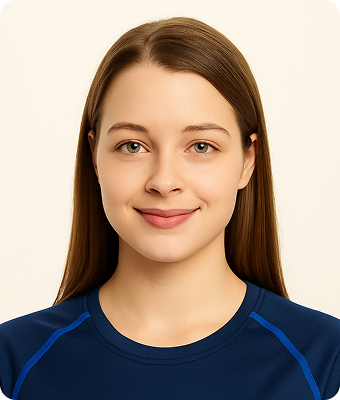
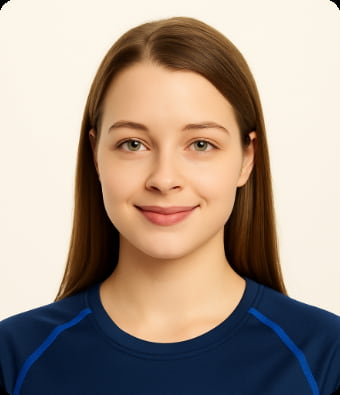
change team photo

diff --git a/src/partials/team.html b/src/partials/team.html
@@ -11,14 +11,14 @@
             <!-- Liam -->
             <li class="team-card">
                 <picture class="team-card-picture">
-                    <source srcset="/img/team/liam.jpg 1x, /img/team/liam-@2x.jpg 2x" media="(min-width: 1440px)" />
-                    <source srcset="/img/team/liam-mob.jpg 1x, /img/team/liam-mob-@2x.jpg 2x"
-                        media="(max-width: 768px)" />
-                    <img src="/img/team/liam.jpg" alt="Liam Johnson" width="343" height="221" />
+                    <source srcset="/img/team/liam-mob.jpg 1x, /img/team/liam-mob-2x.jpg 2x" media="(max-width: 768px)" />
+                    <source srcset="/img/team/liam.jpg 1x, /img/team/liam-2x.jpg 2x" media="(min-width: 1440px)" />
+                    <img src="/img/team/liam-tab.jpg" srcset="/img/team/liam-tab.jpg 1x, /img/team/liam-tab-2x.jpg 2x"
+                        alt="Liam Johnson" /> 
                 </picture>
                 <h3>Liam Johnson</h3>
                 <p class="role">Yoga Instructor</p>
-                <p class="bio">Emma has over 10 years of experience in Hatha and Vinyasa yoga.</p>
+                <p class="bio">Liam specializes in mindfulness and stress reduction techniques through guided meditation.</p>
                 <div class="team-socials">
                     <a class="media-container-icon linkedin" href="https://www.linkedin.com/">
                         <svg class="mediaicons" width="18" height="18">
@@ -36,18 +36,22 @@
             <!-- Emma -->
             <li class="team-card">
                 <picture class="team-card-picture">
-                    <source srcset="/img/team/emma.jpg 1x, /img/team/emma-@2x.jpg 2x" media="(min-width: 1336px)" />
-                    <source srcset="/img/team/emma-mob.jpg 1x, /img/team/emma-mob-@2x.jpg 2x"
-                        media="(max-width: 768px)" />
-                    <img src="/img/team/emma.jpg" alt="Emma Stone" width="343" height="221" />
+                    <!-- Мобільні екрани до 768px -->
+                    <source srcset="/img/team/emma-mob.jpg 1x,/img/team/emma-mob-2x.jpg 2x" media="(max-width: 768px)"/>
+                    <!-- Десктопи від 1440px -->
+                    <source srcset="/img/team/emma.jpg 1x, /img/team/emma-2x.jpg 2x" 
+                    media="(min-width: 1440px)" />
+                
+                    <!-- Fallback для екранів 768px–1439px -->
+                    <img src="/img/team/emma-tab.jpg" srcset="/img/team/emma-tab.jpg 1x, /img/team/emma-tab-2x.jpg 2x" alt="Emma Stone"/>        
                 </picture>
+            
                 <h3>Emma Stone</h3>
                 <p class="role">Meditation Coach</p>
-                <p class="bio">Liam specializes in mindfulness and stress reduction techniques through guided
-                    meditation.
+                <p class="bio">Emma has over 10 years of experience in Hatha and Vinyasa yoga.
                 </p>
-                <div class="socials">
-                    <a class="media-container-icon linkedin" href="#">
+                <div class="team-socials">
+                    <a class="media-container-icon linkedin" href="https://www.linkedin.com/">
                         <svg class="mediaicons" width="18" height="18">
                             <use href="/img/sprite.svg#icon-linkedin"></use>
                         </svg>
@@ -58,16 +62,19 @@
             <!-- Sophia -->
             <li class="team-card">
                 <picture class="team-card-picture">
-                    <source srcset="/img/team/sophia.jpg 1x, /img/team/sophia-@2x.jpg 2x" media="(min-width: 1336px)" />
-                    <source srcset="/img/team/sophia-mob.jpg 1x, /img/team/sophia-mob-@2x.jpg 2x"
-                        media="(max-width: 768px)" />
-                    <img src="/img/team/sophia.jpg" alt="Sophia Lee" width="343" height="221" />
+                    <source srcset="/img/team/sophia-mob.jpg 1x, /img/team/sophia-mob-2x.jpg 2x" media="(max-width: 768px)" />
+                    
+                    <!-- Десктопи: від 1440px -->
+                    <source srcset="/img/team/sophia.jpg 1x, /img/team/sophia-2x.jpg 2x" media="(min-width: 1440px)" />
+                    
+                    <!-- Планшети та середні екрани: 769px – 1439px -->
+                    <img src="/img/team/sophia-tab.jpg" srcset="/img/team/sophia-tab.jpg 1x, /img/team/sophia-tab-2x.jpg 2x" alt="Sophia Lee" />
                 </picture>
                 <h3>Sophia Lee</h3>
                 <p class="role">Pilates Trainer</p>
                 <p class="bio">Sophia combines Pilates with yoga for a holistic fitness approach.</p>
-                <div class="socials">
-                    <a class="media-container-icon instagram" href="#">
+                <div class="team-socials">
+                    <a class="media-container-icon instagram" href="https://www.instagram.com/">
                         <svg class="mediaicons" width="24" height="24">
                             <use href="/img/sprite.svg#icon-instagram"></use>
                         </svg>
@@ -78,16 +85,20 @@
             <!-- Noah -->
             <li class="team-card">
                 <picture class="team-card-picture">
-                    <source srcset="/img/team/noah.jpg 1x, /img/team/noah-@2x.jpg 2x" media="(min-width: 1336px)" />
-                    <source srcset="/img/team/noah-mob.jpg 1x, /img/team/noah-mob-@2x.jpg 2x"
-                        media="(max-width: 768px)" />
-                    <img src="/img/team/noah.jpg" alt="Noah Brown" width="343" height="221" />
+                    <source srcset="/img/team/noah-mob.jpg 1x, /img/team/noah-mob-2x.jpg 2x" media="(max-width: 768px)" />
+                    
+                    <!-- Десктопи (від 1440px) -->
+                    <source srcset="/img/team/noah.jpg 1x, /img/team/noah-2x.jpg 2x" media="(min-width: 1440px)" />
+                    
+                    <!-- Середні екрани (769px–1439px) -->
+                    <img src="/img/team/noah.jpg" srcset="/img/team/noah-tab.jpg 1x, /img/team/noah-tab-2x.jpg 2x" 
+                    alt="Noah Brown" />
                 </picture>
                 <h3>Noah Brown</h3>
                 <p class="role">Yoga Therapist</p>
                 <p class="bio">Noah focuses on therapeutic yoga to aid recovery and enhance well-being.</p>
-                <div class="socials">
-                    <a class="media-container-icon linkedin" href="#">
+                <div class="team-socials">
+                    <a class="media-container-icon linkedin" href="https://www.linkedin.com/">
                         <svg class="mediaicons" width="18" height="18">
                             <use href="/img/sprite.svg#icon-linkedin"></use>
                         </svg>
@@ -98,27 +109,31 @@
             <!-- Ava -->
             <li class="team-card">
                 <picture class="team-card-picture">
-                    <source srcset="/img/team/ava.jpg 1x, /img/team/ava-@2x.jpg 2x" media="(min-width: 1336px)" />
-                    <source srcset="/img/team/ava-mob.jpg 1x, /img/team/ava-mob-@2x.jpg 2x"
-                        media="(max-width: 768px)" />
-                    <img src="/img/team/ava.jpg" alt="Ava Green" width="343" height="221" />
+                    <source srcset="/img/team/ava-mob.jpg 1x, /img/team/ava-mob-2x.jpg 2x" media="(max-width: 768px)" />
+                    
+                    <!-- Десктопи (від 1440px) -->
+                    <source srcset="/img/team/ava.jpg 1x, /img/team/ava-2x.jpg 2x" media="(min-width: 1440px)" />
+                    
+                    <!-- Середні екрани (від 769px до 1439px) -->
+                    <img src="/img/team/ava-tab.jpg" srcset="/img/team/ava-tab.jpg 1x, /img/team/ava-tab-2x.jpg 2x" alt="Ava Green"
+                    />
                 </picture>
                 <h3>Ava Green</h3>
                 <p class="role">Fitness Trainer</p>
                 <p class="bio">Ava integrates strength training with yoga to promote overall fitness.</p>
-                <div class="socials">
-                    <a class="media-container-icon facebook" href="#">
+                <div class="team-socials">
+                    <a class="media-container-icon facebook" href="https://www.facebook.com/">
                         <svg class="mediaicons" width="24" height="24">
                             <use href="/img/sprite.svg#icon-facebook"></use>
                         </svg>
                     </a>
 
-                    <a class="media-container-icon instagram" href="#">
+                    <a class="media-container-icon instagram" href=" https://www.instagram.com/">
                         <svg class="mediaicons" width="24" height="24">
                             <use href="/img/sprite.svg#icon-instagram"></use>
                         </svg>
                     </a>
-                    <a class="media-container-icon linkedin" href="#">
+                    <a class="media-container-icon linkedin" href="https://www.linkedin.com/">
                         <svg class="mediaicons" width="18" height="18">
                             <use href="/img/sprite.svg#icon-linkedin"></use>
                         </svg>
@@ -129,24 +144,28 @@
             <!-- Clark -->
             <li class="team-card">
                 <picture class="team-card-picture">
-                    <source srcset="/img/team/clark.jpg 1x, /img/team/clark-@2x.jpg 2x" media="(min-width: 1336px)" />
-                    <source srcset="/img/team/clark-mob.jpg 1x, /img/team/clark-mob-@2x.jpg 2x"
-                        media="(max-width: 768px)" />
-                    <img src="/img/team/clark.jpg" alt="Clark Thomas" width="343" height="221" />
+                    <source srcset="/img/team/clark-mob.jpg 1x, /img/team/clark-mob-2x.jpg 2x" media="(max-width: 768px)" />
+                    
+                    <!-- Десктопи (від 1440px) -->
+                    <source srcset="/img/team/clark.jpg 1x, /img/team/clark-2x.jpg 2x" media="(min-width: 1440px)" />
+                    
+                    <!-- Середні екрани (fallback 769px–1439px) -->
+                    <img src="/img/team/clark-tab.jpg" srcset="/img/team/clark-tab.jpg 1x, /img/team/clark-tab-2x.jpg 2x" alt="Clark Thomas"
+                    />
                 </picture>
                 <h3>Clark Thomas</h3>
                 <p class="role">Fitness Trainer</p>
                 <p class="bio">Clark specializes in mindfulness and stress reduction techniques through guided
                     meditation.
                 </p>
-                <div class="socials">
-                    <a class="media-container-icon facebook" href="#">
+                <div class="team-socials">
+                    <a class="media-container-icon facebook" href="https://www.facebook.com/">
                         <svg class="mediaicons" width="24" height="24">
                             <use href="/img/sprite.svg#icon-facebook"></use>
                         </svg>
                     </a>
 
-                    <a class="media-container-icon linkedin" href="#">
+                    <a class="media-container-icon linkedin" href="https://www.linkedin.com/">
                         <svg class="mediaicons" width="18" height="18">
                             <use href="/img/sprite.svg#icon-linkedin"></use>
                         </svg>

diff --git a/src/css/team.css b/src/css/team.css
@@ -37,7 +37,6 @@
 
 
 .team-description {
-    font-family: "Sarabun", sans-serif;
     font-weight: 400;
     font-size: 16px;
     line-height: 1.6;
@@ -59,14 +58,16 @@
     box-shadow: none;
     display: flex;
     flex-direction: column;
-   
-
+    height: 100%;
 }
 
 .team-card-picture {
     margin-bottom: 20px;
 }
-
+.team-card-picture img {
+    min-width: 343px;
+    border-radius: 16px;
+}
 .team-card h3 {
     font-weight: 600;
     font-size: 18px;
@@ -104,49 +105,73 @@
 
 /* Tablet: 768px */
 @media only screen and (min-width: 768px) {
-    .team-header h2 {
+    .team {
+        padding: 40px 0 0 0;
+    }
+    .team-subtitle {
+        margin-bottom: 16px;
+    }
+    .team-title {
         font-size: 52px;
+        margin-bottom: 24px;
     }
-
+    .team-description {
+        font-size: 18px;
+        margin-bottom: 40px;
+    }
     .team-grid {
-        grid-template-columns: repeat(2, 1fr);
-        gap: 32px;
-        max-width: 768px;
+        flex-direction: row;
+        flex-wrap: wrap;
+        gap: 24px;
+        align-items: flex-start;
+        
     }
-
-    .team-card picture,
-    .team-card img {
-        max-width: 340px;
-        height: auto;
+    .team-card {
+        width: calc((100% - 24px) / 2)
     }
+    .team-card-picture {
+        
+        margin-bottom: 24px;
+    }
+    .team-card h3 {
+        font-size: 22px;
+    }
+    .team-card .role {
+        font-size: 18px;
+        margin-bottom: 16px;
+    }
+    .team-card .bio {
+        margin-bottom: 24px;
+    }
+    .team-socials {
+        gap: 14px;
+    }
+        
+    
 }
 
 /* Desktop: 1336px+ */
-@media only screen and (min-width: 1336px) {
-    .team-header h2 {
+@media only screen and (min-width: 1440px) {
+    .team {
+        padding: 112px 0;
+    }
+    .team-title {
         font-size: 52px;
     }
-
     .team-grid {
-        grid-template-columns: repeat(3, 1fr);
-        max-width: 1200px;
-        gap: 40px;
+        align-items: center;
+        justify-content: space-between;
+        row-gap: 64px;
+        column-gap: 24px;
     }
 
-    .team-card picture,
-    .team-card img {
-        width: 421.333px;
-        height: auto;
+    .team-card {
+        width: calc((100% - 48px) / 3);
     }
 }
+   
 
-.team-card .socials {
-    display: flex;
-    justify-content: center;
-    gap: 4px;
-    margin-top: 12px;
 
-}
 
 
 

diff --git a/src/partials/pricing.html b/src/partials/pricing.html
@@ -30,7 +30,7 @@
                         Community support group
                     </li>
                 </ul>
-                <button type="button" class="pricing-card-button">Join</button>
+                <button type="button" class="pricing-card-button" data-modal-one-open >Join</button>
             </li>
             <li class="pricing-card-item">
                 <h3 class="pricing-card-title">8 Sessions Package</h3>
@@ -58,7 +58,7 @@
                         Priority customer support
                     </li>
                 </ul>
-                <button type="button" class="pricing-card-button">Join</button>
+                <button type="button" class="pricing-card-button" data-modal-two-open >Join</button>
             </li>
             <li class="pricing-card-item">
                 <div class="pricing-card-item-full-price">
@@ -110,7 +110,7 @@
                             Community support group
                         </li>
                     </ul>
-                    <button type="button" class="pricing-card-button">Join</button>
+                    <button type="button" class="pricing-card-button" data-modal-three-open>Join</button>
                 </div>
             </li>
         </ul>
